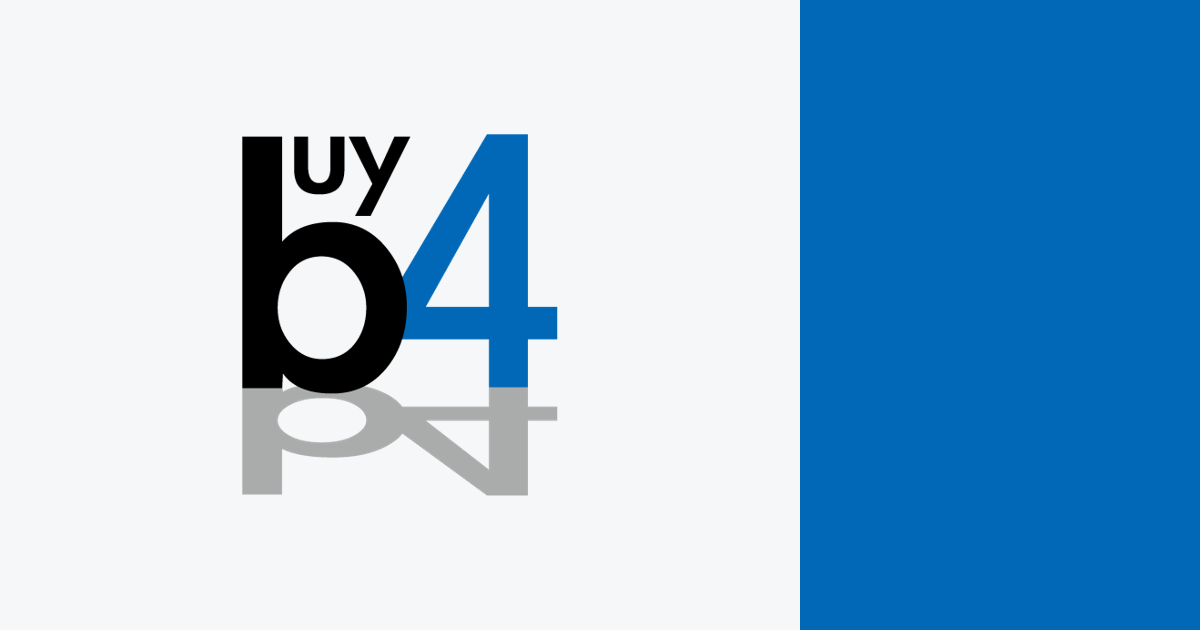
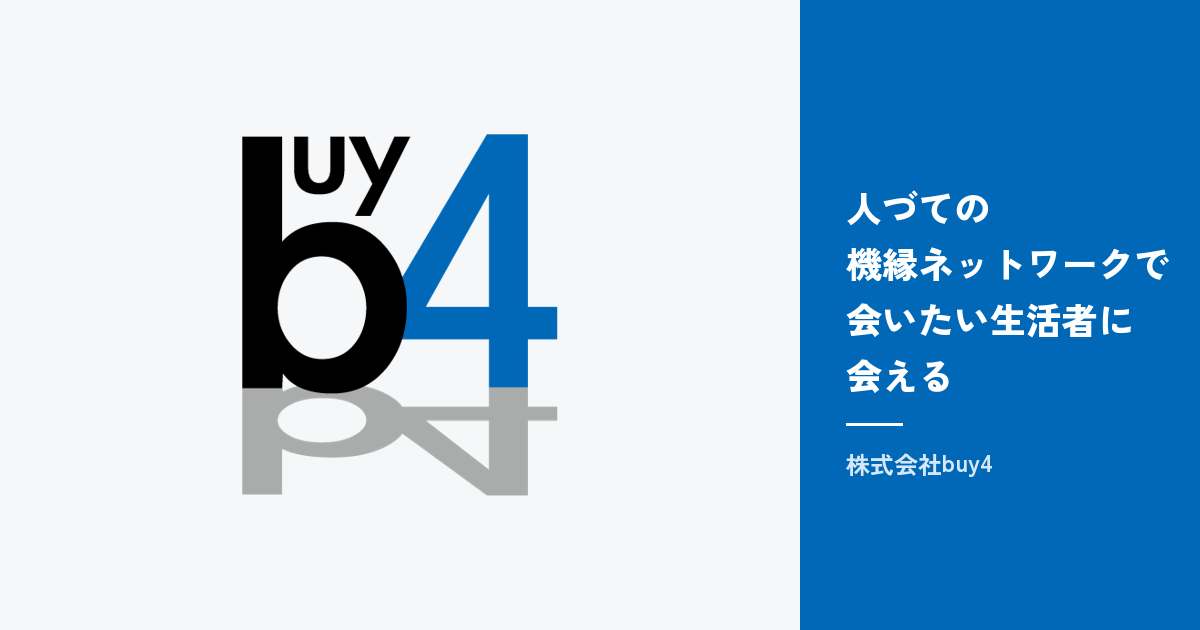
全体見直し：対応年代を小学生〜に、トップの実績を入れ替え、会社概要に問い合わせ先、SNS共有画像にキャッチコピー
Claude-Session: https://claude.ai/code/session_01YCBPEFBe16Pdv43rpKfk6s

diff --git a/index.html b/index.html
@@ -78,7 +78,7 @@
   <section class="stats" aria-label="buy4の数字">
     <div class="in">
       <div class="stat"><b>約3,300名</b><span>保有パネル・コミュニティ</span></div>
-      <div class="stat"><b>中学生〜80代</b><span>リクルート実績のある年代</span></div>
+      <div class="stat"><b>小学生〜80代</b><span>リクルート実績のある年代</span></div>
       <div class="stat"><b>全国</b><span>東京・大阪・福岡ほか</span></div>
       <div class="stat"><b>一部だけOK</b><span>リクルートのみ・実査のみも</span></div>
     </div>
@@ -118,11 +118,11 @@
     <div class="in">
       <div class="sec-h"><p class="eyebrow">WORKS</p><h2>過去の実績</h2></div>
       <div class="grid3">
+        <article class="case"><span class="chip">自動車</span><h3>EVオーナーの日々の運転とクルマとの付き合い方</h3><dl><dt>手法</dt><dd>1週間の乗車日記 → 同乗観察（60分）→ 自宅訪問インタビュー（180分）</dd><dt>対象</dt><dd>新車購入から3年以内のEVオーナー。一般パネルでは見つからない条件を、オーナーコミュニティ経由でリクルート</dd></dl></article>
+        <article class="case"><span class="chip">IT・AI</span><h3>生成AIを使いこなす小中学生の活用実態</h3><dl><dt>手法</dt><dd>事前課題（AI利用の写真・動画）→ オンラインデプス（90分・保護者同席）</dd><dt>対象</dt><dd>生成AIを先進的に使う小学生・中学生 8名</dd></dl></article>
+        <article class="case"><span class="chip">家電</span><h3>住まいのタイプ別に見る家庭の掃除実態</h3><dl><dt>手法</dt><dd>自宅訪問 → 対面ヒアリング（30〜60分）。ご相談から約2週間で実施</dd><dt>対象</dt><dd>戸建てファミリー、マンションのファミリー・DINKS、20〜30代一人暮らし 計6名（東京23区）</dd></dl></article>
         <article class="case"><span class="chip">男性ヘアケア</span><h3>日々のセルフケア行動からアイデアを探索</h3><dl><dt>手法</dt><dd>LINE投稿 → 動画撮影 → 会場デプス（120分）</dd><dt>対象</dt><dd>男性有職者 15名</dd></dl></article>
-        <article class="case"><span class="chip">女性化粧品</span><h3>大手企業の新商品開発に向けた試作品評価</h3><dl><dt>手法</dt><dd>HUT → 会場グループインタビュー（90分）</dd><dt>対象</dt><dd>女性有職者・専業主婦 10名</dd></dl></article>
-        <article class="case"><span class="chip">食品メーカー</span><h3>子育て家庭の夕飯づくりから探るブランドポジショニング</h3><dl><dt>手法</dt><dd>1週間の夕飯写真 → 会場デプス（60分）</dd><dt>対象</dt><dd>小学生以下の子がいる専業主婦 10名</dd></dl></article>
         <article class="case"><span class="chip">メディア接触</span><h3>ティーンのSNS利用実態と価値観</h3><dl><dt>手法</dt><dd>オンライングループインタビュー（120分）</dd><dt>対象</dt><dd>中学生6名・高校生6名（東京・大阪・福岡）</dd></dl></article>
-        <article class="case"><span class="chip">動画コンテンツ</span><h3>企業のYouTube動画に対するティーンの受容性</h3><dl><dt>手法</dt><dd>会場で視聴・グループインタビュー（120分）</dd><dt>対象</dt><dd>中・高・大学生 各4名（東京・大阪）</dd></dl></article>
         <article class="case"><span class="chip">公共・広報</span><h3>年金に関するポスター2案の比較評価</h3><dl><dt>手法</dt><dd>オンラインデプス（60分）</dd><dt>対象</dt><dd>年金生活者のシニア 20名</dd></dl></article>
       </div>
       <div><a class="btn ghost" href="works/">実績をもっと見る</a></div>

diff --git a/services/index.html b/services/index.html
@@ -48,7 +48,7 @@
     <div class="svc" id="recruiting"><div><p class="eyebrow">01</p><h2>リクルーティング</h2></div><div>
       <p>機縁ネットワークと協力会社のパネルを組み合わせ、条件に合う対象者を全国から探します。一般のパネルでは見つかりにくい方にも対応します。</p>
       <ul>
-        <li>一般有職者・専業主婦（夫）・中高大学生・シニア（60〜80代）</li>
+        <li>一般有職者・専業主婦（夫）・小中高大学生・シニア（60〜80代）</li>
         <li>医師・弁護士・庭師・芸人などの特殊職業、経営者</li>
         <li>富裕層（年収3,000万円以上）、エクストリームユーザー、インフルエンサー</li>
       </ul>

diff --git a/company/index.html b/company/index.html
@@ -51,7 +51,8 @@
       <tr><th>所在地</th><td>〒150-0001 東京都渋谷区神宮前6-23-4 桑野ビル2階</td></tr>
       <tr><th>電話</th><td><a href="tel:0367704350">03-6770-4350</a></td></tr>
       <tr><th>事業内容</th><td>マーケティングリサーチ（定性調査の企画・設計・実査・報告）<br>調査対象者のリクルーティング<br>パネル・コミュニティの運営</td></tr>
-      <tr><th>法人番号</th><td>3010801032279</td></tr>
+      <tr><th>お問い合わせ</th><td><a href="mailto:contact@buy4.co.jp">contact@buy4.co.jp</a></td></tr>
+        <tr><th>法人番号</th><td>3010801032279</td></tr>
     </table>
   </div></section>
 </main>

diff --git a/works/index.html b/works/index.html
@@ -41,7 +41,7 @@
   <section class="ph"><div class="in">
     <p class="eyebrow">WORKS</p>
     <h1>実績</h1>
-    <p>生活の記録とインタビューを組み合わせた調査や、ティーン・シニアなど集めにくい層の調査を多く手がけています。</p>
+    <p>生活の記録とインタビューを組み合わせた調査や、ティーン・シニア・EVオーナー・動画クリエイターなど、集めにくい層の調査を多く手がけています。</p>
   </div></section>
   <section class="sec" style="padding-top:24px"><div class="in">
     <div class="grid3">

diff --git a/README.md b/README.md
@@ -23,7 +23,6 @@ Claude が更新するときも、人が更新するときも、HTMLファイル
 - **ニュースを追加**：`news/website-renewal.html` をコピーして新しい記事を作り、`news/index.html` の一覧の一番上に1行足す。
 - **実績を追加**：`index.html`（トップは6件まで）と `works/index.html` の `<article class="case">` を1つ足す。
 - **パネル人数を更新**：`index.html` の PANEL セクションと `services/index.html` の 03、トップの数字の帯（約3,300名）。
-- **会社概要に設立・代表者を追加**：`company/index.html` のコメントアウトを外して記入。
 - **問い合わせの送り先**：`contact/index.html` の `data-to="..."` と、右側の連絡先。
 
 ## 問い合わせフォーム
